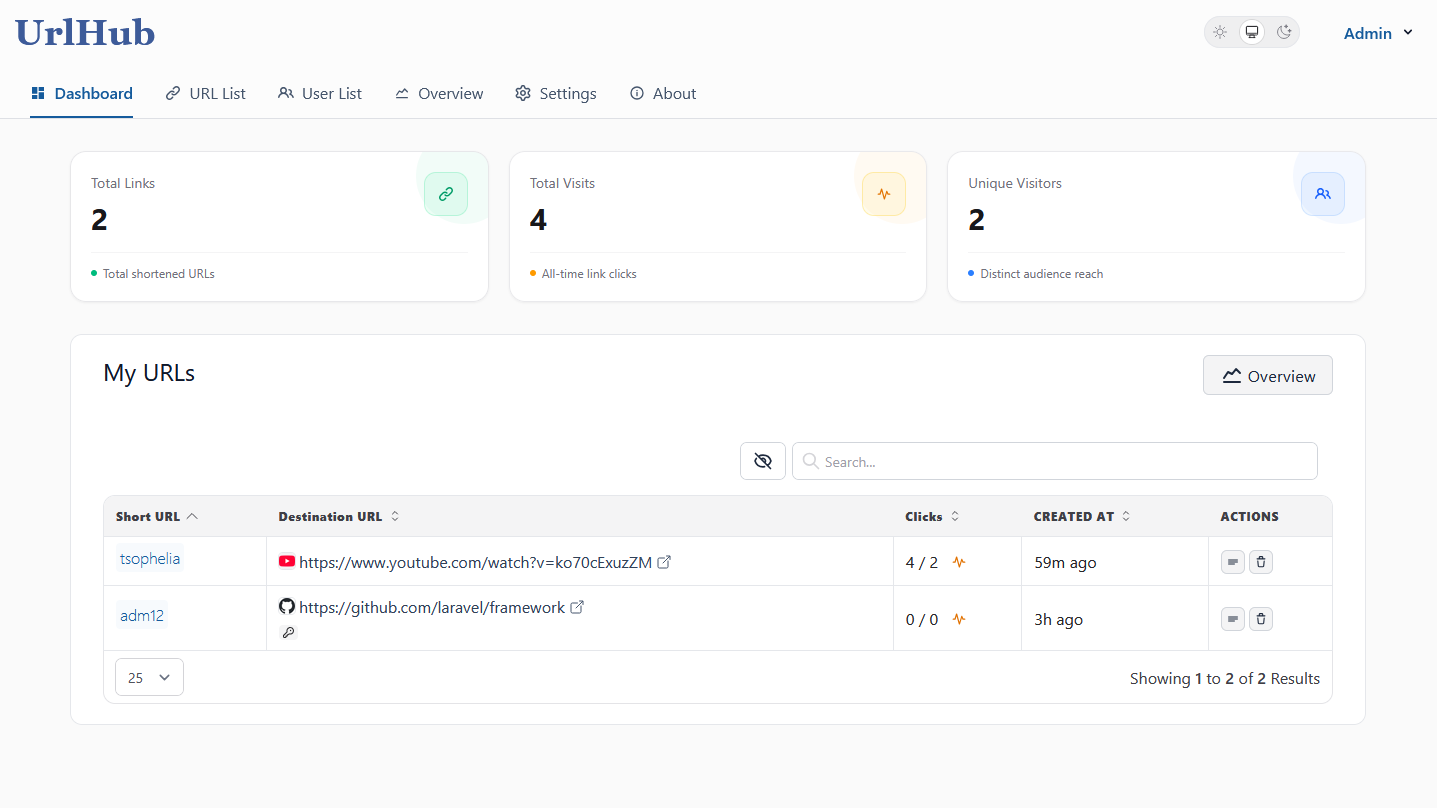
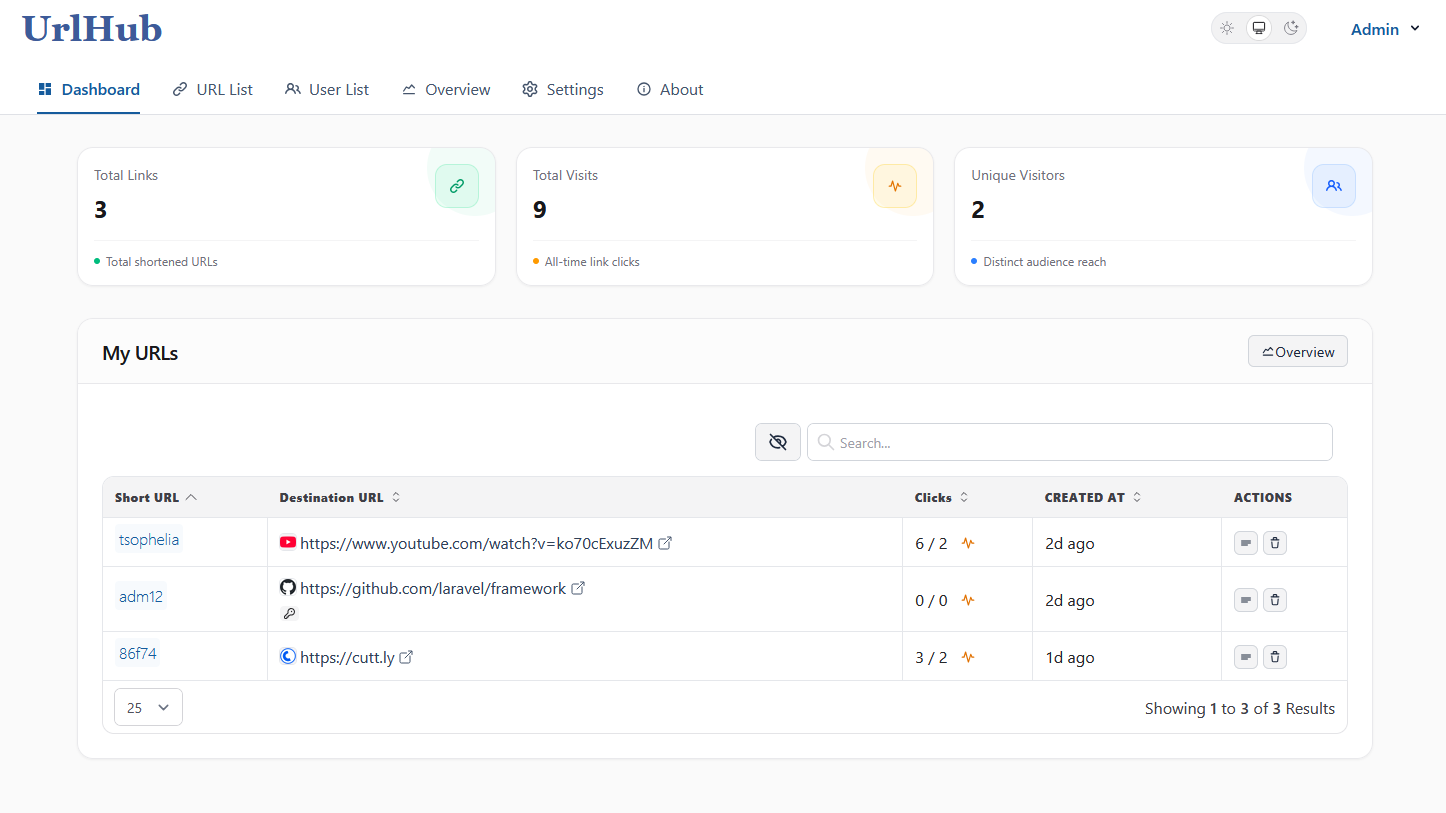
Modernize table card layouts

diff --git a/resources/views/backend/url-list.blade.php b/resources/views/backend/url-list.blade.php
@@ -7,22 +7,36 @@
         @include('partials.messages')
     </div>
 
-    <div class="content-container card card-master">
-        <div class="content-header grid-cols-1! md:grid-cols-2!">
-            <p class="text-2xl">List of All URLs</p>
+    <div class="overflow-hidden rounded-2xl border border-gray-200/80 bg-white shadow-xs dark:border-dark-800 dark:bg-dark-900">
+        <div class="flex flex-wrap items-center justify-between gap-4 border-b border-gray-200/80 bg-gray-50/60 px-6 py-4 dark:border-dark-800 dark:bg-dark-950/40">
+            <div>
+                <h1 class="text-lg font-semibold tracking-tight text-gray-900 sm:text-xl dark:text-white">
+                    List of All URLs
+                </h1>
+            </div>
 
-            <div class="md:flex justify-end mt-4 md:mt-0">
-                <a href="{{ route('dboard.allurl.u-user', \App\Models\User::GUEST_NAME) }}" title="Shortened links by Guests" class="btn btn-secondary">
-                    By Guest
+            <div class="flex items-center gap-2">
+                <a
+                    href="{{ route('dboard.allurl.u-user', \App\Models\User::GUEST_NAME) }}"
+                    title="Shortened links by Guests"
+                    class="btn btn-secondary btn-sm"
+                >
+                    <span>By Guest</span>
                 </a>
 
-                <a href="{{ route('dboard.links.restricted') }}" title="Restricted links" class="btn btn-secondary ml-2">
-                    Restricted
+                <a
+                    href="{{ route('dboard.links.restricted') }}"
+                    title="Restricted links"
+                    class="btn btn-secondary btn-sm"
+                >
+                    <span>Restricted</span>
                 </a>
             </div>
         </div>
 
-        @livewire('table.UrlTable')
+        <div class="p-6">
+            @livewire('table.UrlTable')
+        </div>
     </div>
 </div>
 @endsection

diff --git a/resources/views/backend/dashboard.blade.php b/resources/views/backend/dashboard.blade.php
@@ -84,18 +84,29 @@
         </div>
     </div>
 
-    <div class="content-container card card-master">
-        <div class="content-header">
-            <p class="text-2xl">My URLs</p>
-            <div class="flex justify-end">
-                <a href="{{ route('user.overview', auth()->user()) }}" title="Overview" class="btn btn-secondary">
-                    @svg('icon-overview', 'h-[1.5em]! mr-1')
-                    <p class="hidden sm:inline">Overview</p>
+    <div class="overflow-hidden rounded-2xl border border-gray-200/80 bg-white shadow-xs dark:border-dark-800 dark:bg-dark-900">
+        <div class="flex flex-wrap items-center justify-between gap-4 border-b border-gray-200/80 bg-gray-50/60 px-6 py-4 dark:border-dark-800 dark:bg-dark-950/40">
+            <div>
+                <h1 class="text-lg font-semibold tracking-tight text-gray-900 sm:text-xl dark:text-white">
+                    My URLs
+                </h1>
+            </div>
+
+            <div class="flex items-center gap-2">
+                <a
+                    href="{{ route('user.overview', auth()->user()) }}"
+                    title="Overview"
+                    class="btn btn-secondary btn-sm"
+                >
+                    @svg('icon-overview', 'size-3.5')
+                    <span class="hidden sm:inline">Overview</span>
                 </a>
             </div>
         </div>
 
-        @livewire('table.UrlTableByUser', ['user_id' => auth()->id()])
+        <div class="p-6">
+            @livewire('table.UrlTableByUser', ['user_id' => auth()->id()])
+        </div>
     </div>
 </div>
 @endsection

diff --git a/resources/views/backend/user/index.blade.php b/resources/views/backend/user/index.blade.php
@@ -7,18 +7,29 @@
         @include('partials.messages')
     </div>
 
-    <div class="content-container card card-master">
-        <div class="content-header">
-            <p class="text-2xl">All Users</p>
-            <div class="flex justify-end">
-                <a href="{{ route('user.new') }}" title="Add New User" class="btn btn-primary">
-                    @svg('icon-user-add', 'mr-1')
-                    <p class="hidden sm:inline">Add New User</p>
+    <div class="overflow-hidden rounded-2xl border border-gray-200/80 bg-white shadow-xs dark:border-dark-800 dark:bg-dark-900">
+        <div class="flex flex-wrap items-center justify-between gap-4 border-b border-gray-200/80 bg-gray-50/60 px-6 py-4 dark:border-dark-800 dark:bg-dark-950/40">
+            <div>
+                <h1 class="text-lg font-semibold tracking-tight text-gray-900 sm:text-xl dark:text-white">
+                    All Users
+                </h1>
+            </div>
+
+            <div class="flex items-center gap-2">
+                <a
+                    href="{{ route('user.new') }}"
+                    title="Add New User"
+                    class="btn btn-secondary btn-sm"
+                >
+                    @svg('icon-user-add', 'size-3.5')
+                    <span class="hidden sm:inline">Add New User</span>
                 </a>
             </div>
         </div>
 
-        @livewire('table.user-table')
+        <div class="p-6">
+            @livewire('table.user-table')
+        </div>
     </div>
 </div>
 @endsection

diff --git a/resources/views/backend/url-list-by-user.blade.php b/resources/views/backend/url-list-by-user.blade.php
@@ -3,12 +3,18 @@
 @section('title', 'Links > '. $author)
 @section('content')
 <div class="container-alt max-w-340">
-    <div class="content-container card card-master">
-        <div class="content-header">
-            <p class="text-2xl">Links created by {{ $author }}</p>
+    <div class="overflow-hidden rounded-2xl border border-gray-200/80 bg-white shadow-xs dark:border-dark-800 dark:bg-dark-900">
+        <div class="flex flex-wrap items-center justify-between gap-4 border-b border-gray-200/80 bg-gray-50/60 px-6 py-4 dark:border-dark-800 dark:bg-dark-950/40">
+            <div>
+                <h1 class="text-lg font-semibold tracking-tight text-gray-900 sm:text-xl dark:text-white">
+                    Links created by {{ $author }}
+                </h1>
+            </div>
         </div>
 
-        @livewire('table.UrlTableByUser', ['user_id' => \App\Models\User::findIdByName($author)])
+        <div class="p-6">
+            @livewire('table.UrlTableByUser', ['user_id' => \App\Models\User::findIdByName($author)])
+        </div>
     </div>
 </div>
 @endsection

diff --git a/resources/views/backend/url-list-restricted.blade.php b/resources/views/backend/url-list-restricted.blade.php
@@ -7,10 +7,18 @@
             @include('partials.messages')
         </div>
 
-        <div class="content-container card card-master">
-            <div class="content-header"><p class="text-2xl">Restricted Links</p></div>
+        <div class="overflow-hidden rounded-2xl border border-gray-200/80 bg-white shadow-xs dark:border-dark-800 dark:bg-dark-900">
+            <div class="flex flex-wrap items-center justify-between gap-4 border-b border-gray-200/80 bg-gray-50/60 px-6 py-4 dark:border-dark-800 dark:bg-dark-950/40">
+                <div>
+                    <h1 class="text-lg font-semibold tracking-tight text-gray-900 sm:text-xl dark:text-white">
+                        Restricted Links
+                    </h1>
+                </div>
+            </div>
 
-            @livewire('table.UrlTableByRestricted', ['author' => $author ?? null])
+            <div class="p-6">
+                @livewire('table.UrlTableByRestricted', ['author' => $author ?? null])
+            </div>
         </div>
     </div>
 @endsection
